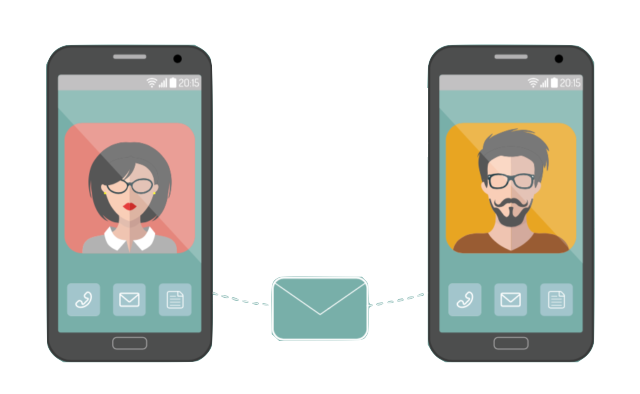
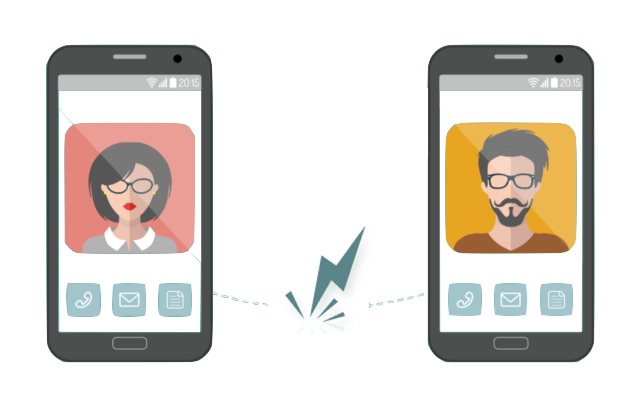
Added Styling to Welcome Screen

diff --git a/App/components/Slides.js b/App/components/Slides.js
@@ -14,7 +14,7 @@ class Slides extends Component {
                   <Image 
                   resizeMode='contain'
                   source={require('../images/sparkLogo.png')} style={{width: 310 }}/>
-                  <Image source={require('../images/Spark.png')} style={{width: 140, height: 150, marginLeft: 50 }}/>
+                  {/* <Image source={require('../images/Spark.png')} style={{width: 140, height: 150, marginLeft: 50 }}/> */}
                   <Button 
                   title="Login" 
                   raised buttonStyle={styles.buttonStyle} 
@@ -24,21 +24,30 @@ class Slides extends Component {
                 
             );
         }
-         else if (index === this.props.data.length - 2){
-          return(
-            <Image source={require('../images/welcomeSecond.png')} style={{width: 240, height: 250}}/>
+         else if (index === this.props.data.length - 2) {
+          return (
+            <View style={styles.container}>
+              <Text style={{ fontSize: 25 }} >Girls Rate the Guys</Text>
+              <Image source={require('../images/welcomeSecond.png')} style={{ width: 272, height: 280 }}/>
+            </View>  
           );
         }
-        else if (index === this.props.data.length - 3){
-          return(
-            <Image 
-            resizeMode='contain'
-            source={require('../images/Measage.png')} style={{width: 320, height: 280}}/>
+        else if (index === this.props.data.length - 3) {
+          return (
+            <View style={styles.container}>
+              <Text style={{ fontSize: 25 }} >Guys Message First</Text>
+              <Image 
+              resizeMode='contain'
+              source={require('../images/Measage.png')} style={{width: 320, height: 280}}/>
+            </View>  
           );
         }
-          else if (index === this.props.data.length - 4){
-          return(
-          <Image source={require('../images/welcomeSpark.png')} style={{width: 230, height: 240}}/>
+          else if (index === this.props.data.length - 4) {
+          return (
+            <View style={styles.container}>  
+              <Text style={{ fontSize: 25 }}>Find Your Match</Text>
+              <Image source={require('../images/welcomeSpark.png')} style={{width: 265, height: 280}}/>
+            </View>  
         );
     }
   }

diff --git a/App/Screens/WelcomeToSpark.js b/App/Screens/WelcomeToSpark.js
@@ -6,10 +6,10 @@ import Slides from '../components/Slides';
 
 
 const SLIDE_DATA = [
-    { text: 'Welcome to Spark', color: '#223d5a' },
-    { text: 'Find Your Match!', color: '#4fa7dd' },
-    { text: 'Guys Message First!', color: '#34799b' },
-    { text: 'Girls Rate the Guys!', color: '#4ac6dd' },
+    { text: 'Welcome to Spark', color: '#34799b' },
+    { text: 'Find Your Match!', color: 'white' },
+    { text: 'Guys Message First!', color: 'white' },
+    { text: 'Girls Rate the Guys!', color: 'white' },
     { text: null, color: 'white' }
   ];
 
